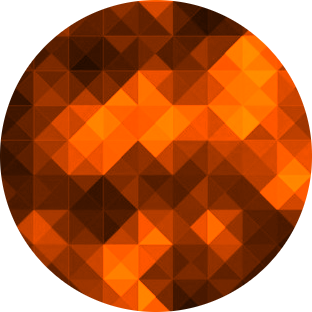
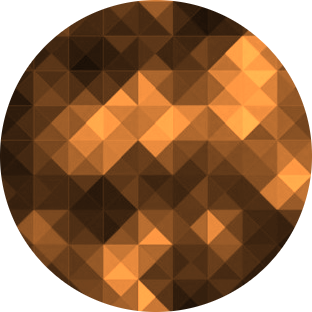
Cleaned up code, fixed round restart bug

diff --git a/main.py b/main.py
@@ -13,6 +13,7 @@ try:
     import Image, PyColorize
 except ImportError:
     Image = None
+    print ("Not generating colored balls/court")
 
 # Android stuff
 TIMEREVENT = pygame.USEREVENT
@@ -24,8 +25,8 @@ pygame.init()
 
 ######### S E T T I N G S #########
 #(WIDTH, HEIGHT) = (800, 1280)
-#(WIDTH, HEIGHT) = (720, 1280)
-(WIDTH, HEIGHT) = (480, 800)
+(WIDTH, HEIGHT) = (720, 1280)
+#(WIDTH, HEIGHT) = (480, 800)
 WINDOW_TITLE = "LOLOL, like OLO, but it's not OLO"
 FPS = 60
 NOISE = False # Noise filter, destroys performance
@@ -36,8 +37,8 @@ LIVES = 8
 BALL_HITPOINTS = 50
 RANDOM_PLAYER_START = True
 P_AREA_SIZE = HEIGHT/6 # Size of the player area in relation to the height
-P1_COLOUR = "00CCFF"
-P2_COLOUR = "993300"
+P1_COLOUR = "4f7ea9"
+P2_COLOUR = "ff9743"
 DARK_THEME = True
 
 ######### F I L E   L O A D I N G #########
@@ -115,6 +116,11 @@ ACTIVE_AREA_COLOUR = (50,50,50)
 TEXT_COLOUR = (100,200,100)
 COURT_COLOUR = (200,200,200) # Lines and stuff
 PAUSE_COLOUR = (160,160,160)
+if Image:
+    p1_score_colour = P1_COLOUR_RGB
+    p2_score_colour = P2_COLOUR_RGB
+else:
+    p1_score_colour, p2_score_colour = COURT_COLOUR, COURT_COLOUR
 
 ###################
 
@@ -162,11 +168,11 @@ def spawnBall(p, s):
 
 def restartRound():
     p1, p2 = False, False
-    if not len(universe.particles) == 0:
-        del universe.particles[:]
+    p1_b, p2_b = [], []
+    universe.p1_lives, universe.p2_lives = LIVES, LIVES
+    del universe.particles[:]
     if RANDOM_PLAYER_START:
         coinflip = random.randrange(1,3)
-        #print ("Player %i begins!" % coinflip)
         if coinflip == 1:
             p1 = True
         else:
@@ -177,8 +183,15 @@ def restartRound():
         spawnBall(1, random.choice(BALL_SIZES))
     else:
         spawnBall(2, random.choice(BALL_SIZES))
+    for p in universe.particles:
+        if p.player == 1:
+            p1_b.append(p)
+        if p.player == 2:
+            p2_b.append(p)
 
-    return p1, p2
+    p1_s, p2_s, b_i_m = [], [], []
+
+    return p1, p2, p1_b, p2_b, p1_s, p2_s, b_i_m
 
 # Defining variables for later
 pygame.display.set_caption(WINDOW_TITLE)
@@ -188,6 +201,7 @@ p1_score, p2_score, p1_balls, p2_balls, balls_in_motion = [], [], [], [], []
 BALL_SIZES = ["s", "m", "l"]
 clock = pygame.time.Clock()
 real_fps = FPS
+delay, delay_max = 0, 5 # Another attempt to fix game end/round change bug when balls of equal mass collide
 paused = True
 debug_mode = False
 selected_particle = None
@@ -206,24 +220,17 @@ while running:
         if event.type == pygame.QUIT:
             running = False
         if event.type == pygame.MOUSEBUTTONDOWN:
-            #if not selected_particle == None:
-            #    real_fps = FPS / 3
             (mouseX, mouseY) = pygame.mouse.get_pos()
             selected_particle = universe.findParticle(mouseX, mouseY)
             if paused:
                 if mouseX < NEWROUND_IMG.get_size()[0] and mouseY > HEIGHT/2-NEWROUND_IMG.get_size()[1]/2 and mouseY < HEIGHT/2+NEWROUND_IMG.get_size()[1]/2:
-                    del p1_balls[:]
-                    del p2_balls[:]
-                    p1_turn, p2_turn = restartRound()
-                    del p1_score[:]
-                    del p2_score[:]
-                    del balls_in_motion[:]
-                    universe.p1_lives, universe.p2_lives = LIVES, LIVES
+                    p1_turn, p2_turn, p1_balls, p2_balls, p1_score, p2_score, balls_in_motion = restartRound()
                     paused = False
                 elif mouseX > WIDTH-QUIT_IMG.get_size()[0] and mouseY > HEIGHT/2-QUIT_IMG.get_size()[1]/2 and mouseY < HEIGHT/2+QUIT_IMG.get_size()[1]/2:
                     running = False
                 elif mouseY > (HEIGHT/5)*2 and mouseY < (HEIGHT/5)*3:
-                    paused = False
+                    if p1_turn or p2_turn:
+                        paused = False
             else:
                 if mouseY > (HEIGHT/5)*2 and mouseY < (HEIGHT/5)*3:
                     paused = True
@@ -232,19 +239,12 @@ while running:
             selected_particle = None
         if event.type == pygame.KEYDOWN:
             if event.key == pygame.K_r:
-                del p1_balls[:]
-                del p2_balls[:]
-                p1_turn, p2_turn = restartRound()
-                del p1_score[:]
-                del p2_score[:]
-                del balls_in_motion[:]
-                universe.p1_lives, universe.p2_lives = LIVES, LIVES
+                p1_turn, p2_turn, p1_balls, p2_balls, p1_score, p2_score, balls_in_motion = restartRound()
             elif event.key == pygame.K_d:
                 debug_mode = (True, False)[debug_mode]
             elif event.key == pygame.K_t:
                 p1_turn = (True, False)[p1_turn]
                 p2_turn = (True, False)[p2_turn]
-            elif event.key == pygame.K_SPACE:
                 paused = (True, False)[paused]
                 selected_particle = None
             elif event.key == pygame.K_ESCAPE:
@@ -289,14 +289,7 @@ while running:
 
     # PARTICLE LOGIC AND DRAWING
     for p in universe.particles:
-        #if p.player == 1: ##### OLD OBSOLETE?
-        #    p.colour = (P1_BALL_COLOUR[0], P1_BALL_COLOUR[1]+(BALL_HITPOINTS-p.hitpoints)*2, P1_BALL_COLOUR[2]+(BALL_HITPOINTS-p.hitpoints)*2)
-        #elif p.player == 2:
-        #    p.colour = (P2_BALL_COLOUR[0]+(BALL_HITPOINTS-p.hitpoints)*2, P2_BALL_COLOUR[1], P2_BALL_COLOUR[2]+(BALL_HITPOINTS-p.hitpoints)*2)
-
-        ###### Draws the balls ######
-        #pygame.draw.circle(screen, p.colour, (int(p.x), int(p.y)), p.size, 0)
-        if p.player == 1:
+        if p.player == 1: # Set corresponding scaled ball image to the right size
             if p.size == L_BALLSIZE:
                 scaled_ball_img = P1_L_IMG
             if p.size == M_BALLSIZE:
@@ -311,12 +304,16 @@ while running:
             if p.size == S_BALLSIZE:
                 scaled_ball_img = P2_S_IMG
 
+        # Determines the radius of the white circle, indicating damage
         scaled_by_hp = int(p.size-(p.size/(BALL_HITPOINTS/p.hitpoints)))
         scaled_dmg_ball_img = pygame.transform.scale(DMG_BALL_IMG, (scaled_by_hp*2, scaled_by_hp*2))
 
+        ###############################
+        # B A L L   R E N D E R I N G #
+        ###############################
         screen.blit(scaled_ball_img,(int(p.x)-p.size, int(p.y)-p.size))
         screen.blit(scaled_dmg_ball_img, (int(p.x)-scaled_by_hp, int(p.y)-scaled_by_hp))
-        #############################
+        ###############################
 
         # Score and turn
         if p.player == 1:
@@ -340,10 +337,10 @@ while running:
         # CHECK FOR BALLS WITHIN PLAYER AREAS
         if p.y < P_AREA_SIZE:   # Player 1
             if not p in p1_balls:
-                p1_balls.append(p)
+                p1_balls.append(p) # Adds to the list of usable balls
         else:
             if p in p1_balls:
-                p1_balls.remove(p)
+                p1_balls.remove(p) # Removes it if it's not in the area
         if p.y > HEIGHT-P_AREA_SIZE:   # Player 2
             if not p in p2_balls:
                 p2_balls.append(p)
@@ -352,7 +349,7 @@ while running:
                 p2_balls.remove(p)
 
 
-        # Removes the ball if it dies
+        # Removes the ball from all lists if it dies
         if p.hitpoints <= 0:
             if p in p1_score:
                 p1_score.remove(p)
@@ -371,23 +368,32 @@ while running:
         if not paused:
             if p1_turn:
                 if not len(balls_in_motion) > 0 and len(p1_balls) == 0:
-                    p1_turn = False
-                    p2_turn = True
-                    if universe.p2_lives > 0:
-                        spawnBall(2, random.choice(BALL_SIZES))
-                        p2_balls.append(p)
+                    delay += 1
+                    if delay == delay_max:
+                        p1_turn = False
+                        p2_turn = True
+                        if universe.p2_lives > 0:
+                            spawnBall(2, random.choice(BALL_SIZES))
+                            p2_balls.append(p)
+                        delay = 0
             elif p2_turn:
                 if not len(balls_in_motion) > 0 and len(p2_balls) == 0:
-                    p1_turn = True
-                    p2_turn = False
-                    if universe.p1_lives > 0:
-                        spawnBall(1, random.choice(BALL_SIZES))
-                        p1_balls.append(p)
+                    delay += 1
+                    if delay == delay_max:
+                        p1_turn = True
+                        p2_turn = False
+                        if universe.p1_lives > 0:
+                            spawnBall(1, random.choice(BALL_SIZES))
+                            p1_balls.append(p)
+                        delay = 0
 
         # Ends the round if no lives, no balls available and no ball is moving:
         if not len(balls_in_motion) > 0 and len(p1_balls) == 0 and len(p2_balls) == 0 and universe.p1_lives == 0 and universe.p2_lives == 0:
-            p1_turn, p2_turn = False, False
-            paused = True
+            delay += 1
+            if delay == delay_max:# Waits 5 frames to restart
+                p1_turn, p2_turn = False, False
+                paused = True
+                delay = 0
 
         # Make a list of balls that are in motion
         if p.speed > MOTION_TRESHOLD:
@@ -402,15 +408,15 @@ while running:
     except NameError:
         p1_score_len = 0
         p1_score_rotate = 0
-        score_label1 = OSD_FONT.render("{0}".format(len(p1_score)), 1, COURT_COLOUR)
+        score_label1 = OSD_FONT.render("{0}".format(len(p1_score)), 1, p1_score_colour)
         score_label1 = pygame.transform.rotozoom(score_label1, 180, 1)
 
     clock.tick(real_fps)
-    score_label2 = OSD_FONT.render("{1}".format(len(p1_score), len(p2_score)), 1, COURT_COLOUR)
+    score_label2 = OSD_FONT.render("{1}".format(len(p1_score), len(p2_score)), 1, p2_score_colour)
 
     if not paused: # Shows score on both sides, the top one rotated
         if len(p1_score) != p1_score_rotate:
-            score_label1 = OSD_FONT.render("{0}".format(len(p1_score)), 1, COURT_COLOUR)
+            score_label1 = OSD_FONT.render("{0}".format(len(p1_score)), 1, p1_score_colour)
             score_label1 = pygame.transform.rotozoom(score_label1, 180, 1) # rotate only on score update
             p1_score_rotate = len(p1_score)
         screen.blit(score_label1, (WIDTH-WIDTH/9, 0))
@@ -463,7 +469,7 @@ while running:
 
 
         # Shows the score in the middle of the screen instead
-        score_label1_normal = OSD_FONT.render("{0}".format(len(p1_score)), 1, COURT_COLOUR)
+        score_label1_normal = OSD_FONT.render("{0}".format(len(p1_score)), 1, p1_score_colour)
         screen.blit(score_label1_normal, (WIDTH/2-15, HEIGHT/2-HEIGHT/15))
         screen.blit(score_label2, (WIDTH/2-15, HEIGHT/2))
 
